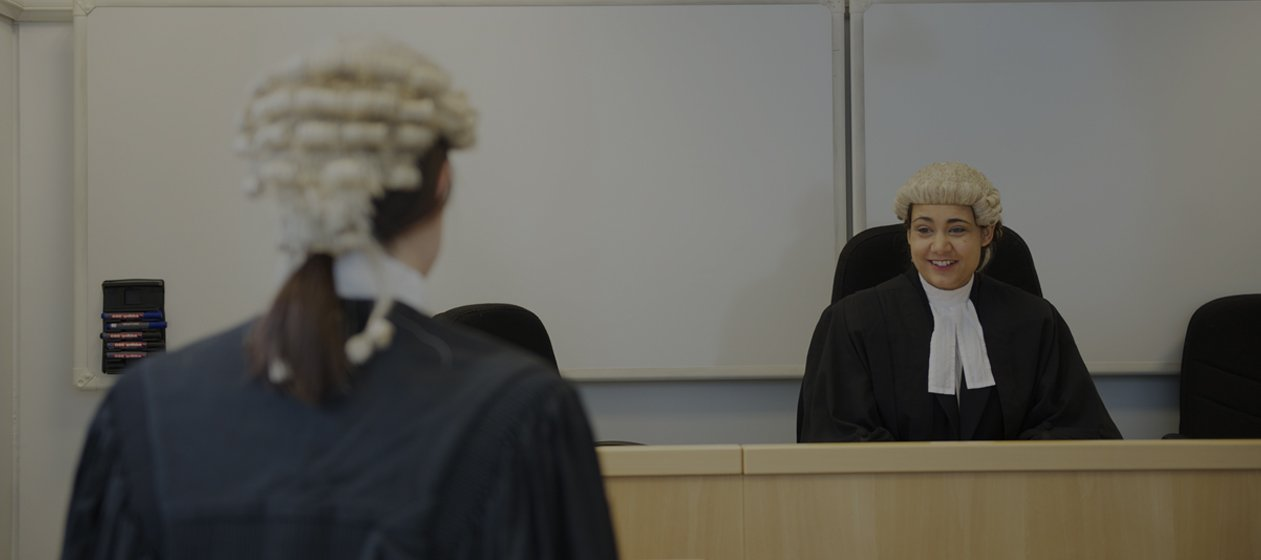
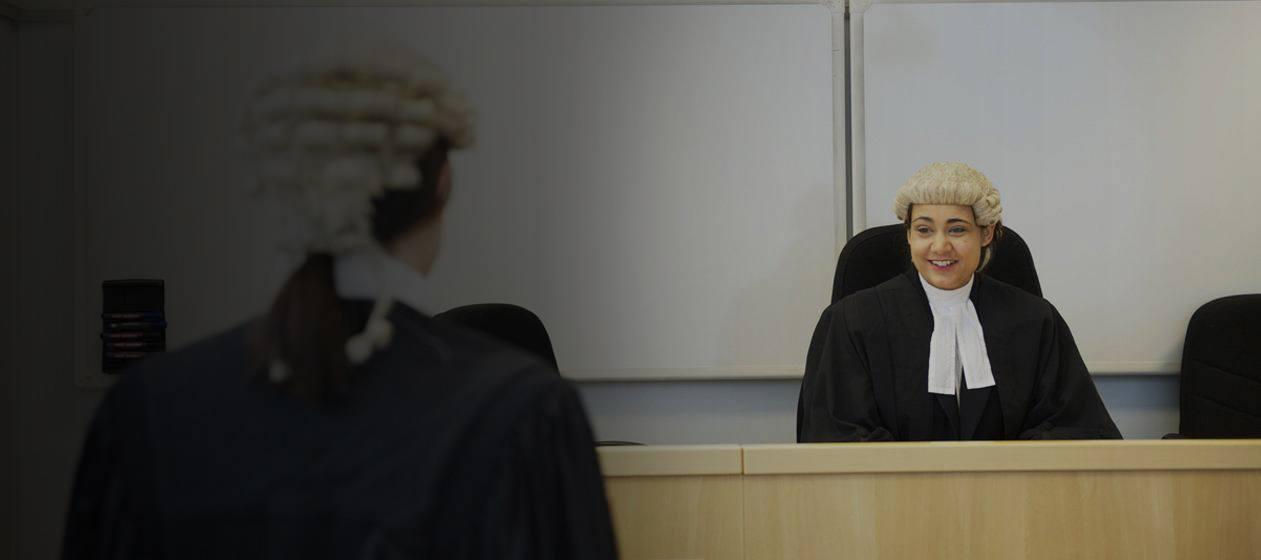
v0.9.1.1
- Phone number formatting amend on Accountancy page
- Colour correction on first image on legal page

diff --git a/accounting/index.html b/accounting/index.html
@@ -65,7 +65,7 @@
         <a href="../index.html"><img class="visible-xs-inline-block" src="https://s3-eu-west-1.amazonaws.com/bppassets/public/assets/img/logos/logo-bpp.png" alt="BPP University"></a>
       </div>
       <a href="tel:03331220353" class="bppicon icon-phone visible-xs-inline-block pull-right InfinityNumber">&nbsp;</a> 
-      <a href="tel:03331220353" class="bppicon icon-phone hidden-xs pull-right InfinityNumber">03331220353</a>  
+      <a href="tel:03331220353" class="bppicon icon-phone hidden-xs pull-right InfinityNumber">03331 220 353</a>  
     </header>
     <div class="wrapper">
       <section class="bg-img-section" style="background-image:url(../images/bg-purple-haze.jpg); background-size:cover;">

diff --git a/law/index.html b/law/index.html
@@ -674,7 +674,7 @@
         
       <section id="more">
         <div class="container full-width-bg">
-        <img src="../images/img-legal.jpg" class="visible-xs" />
+        <img src="../images/img-legal-mob.jpg" class="visible-xs" />
           <div class="col-sm-4 col-sm-offset-1">
               
             <h2>Join a world-renowned Law School</h2>
